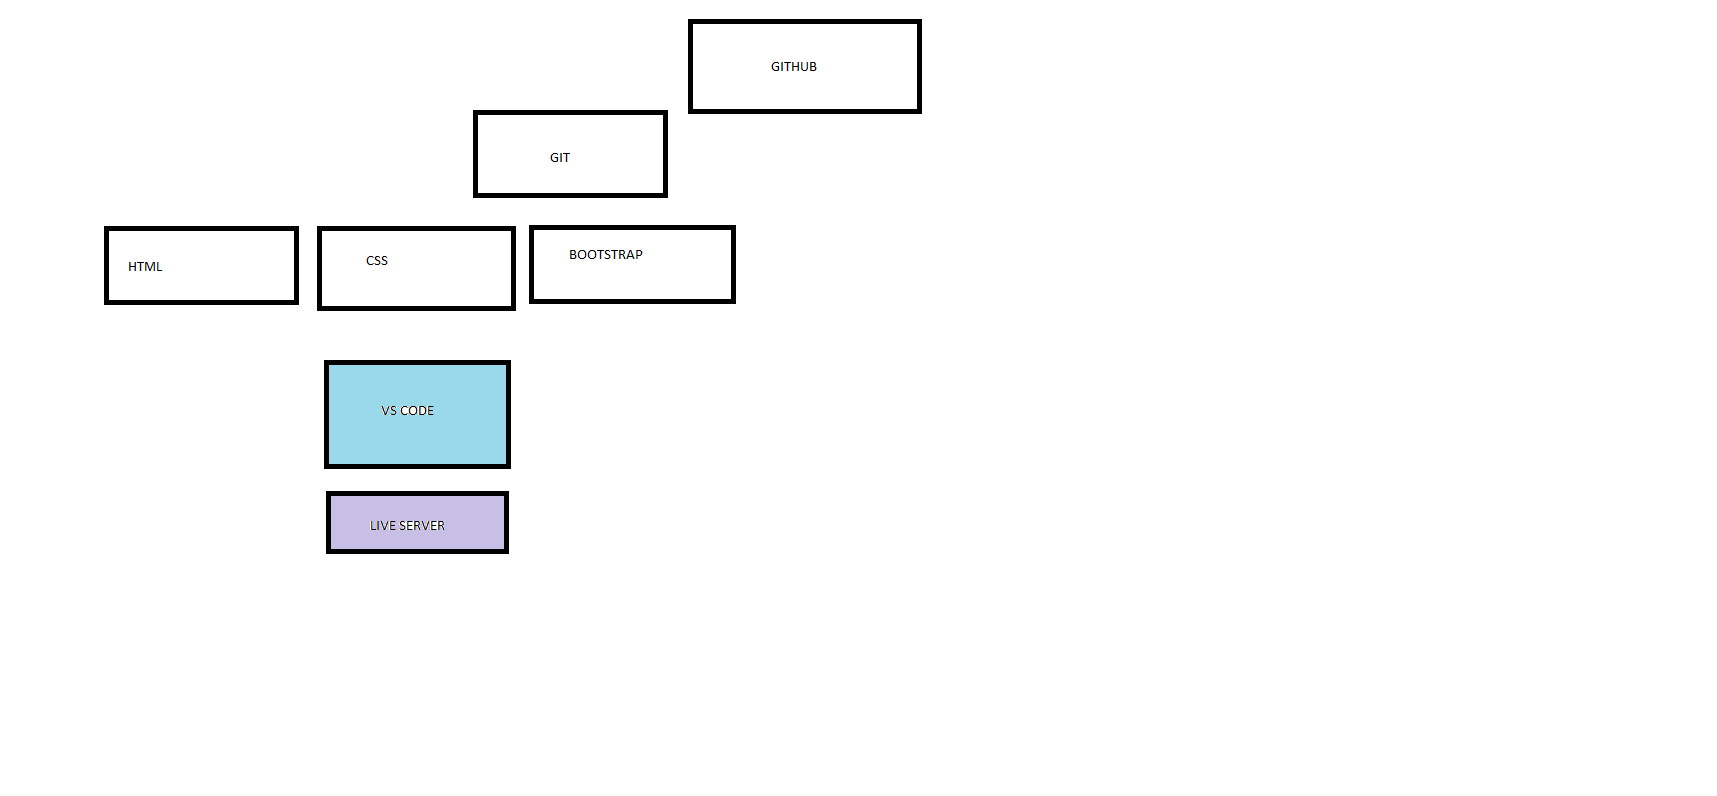
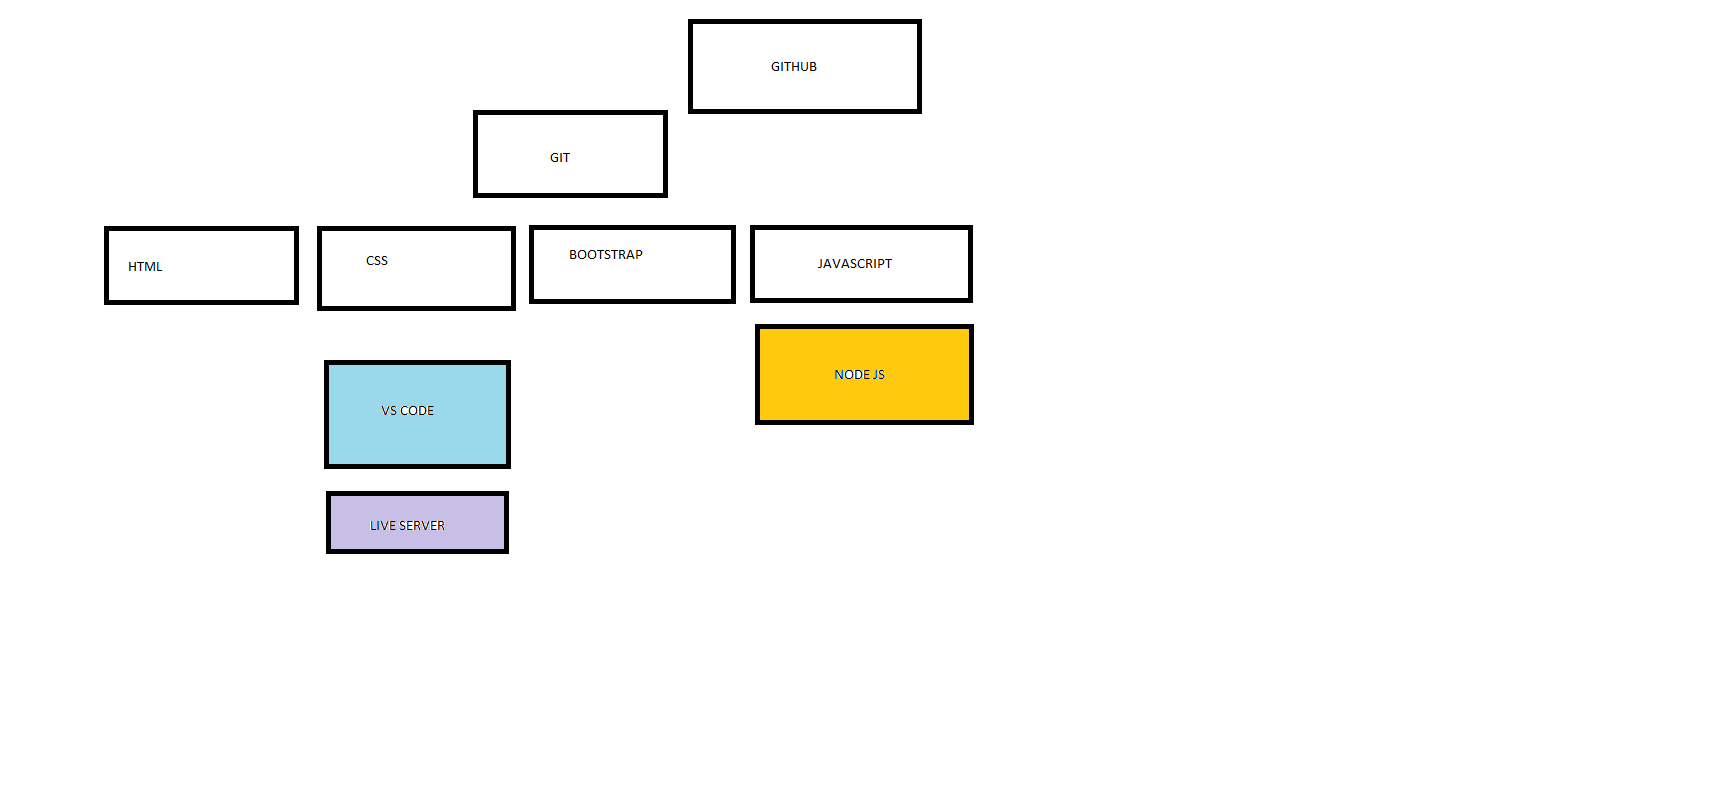
Bootstrap finale

Changed region(s): [[0.4321, 0.3618, 0.5865, 0.5427], [0.4321, 0.2714, 0.5865, 0.3317]]

diff --git a/JavaScript/jsbasics.js b/JavaScript/jsbasics.js
@@ -1,0 +1,7 @@
+console.log("Hi welcome to JS programming");
+function shiftleft(temp)
+{
+    return temp<<2
+}
+
+console.log(shiftleft(13))
